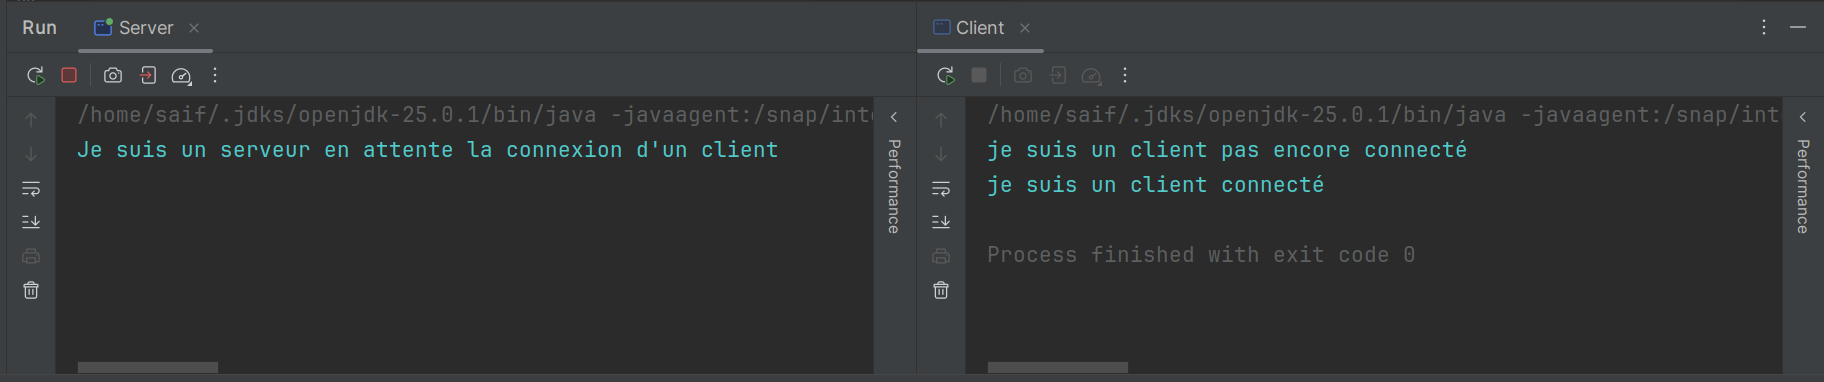
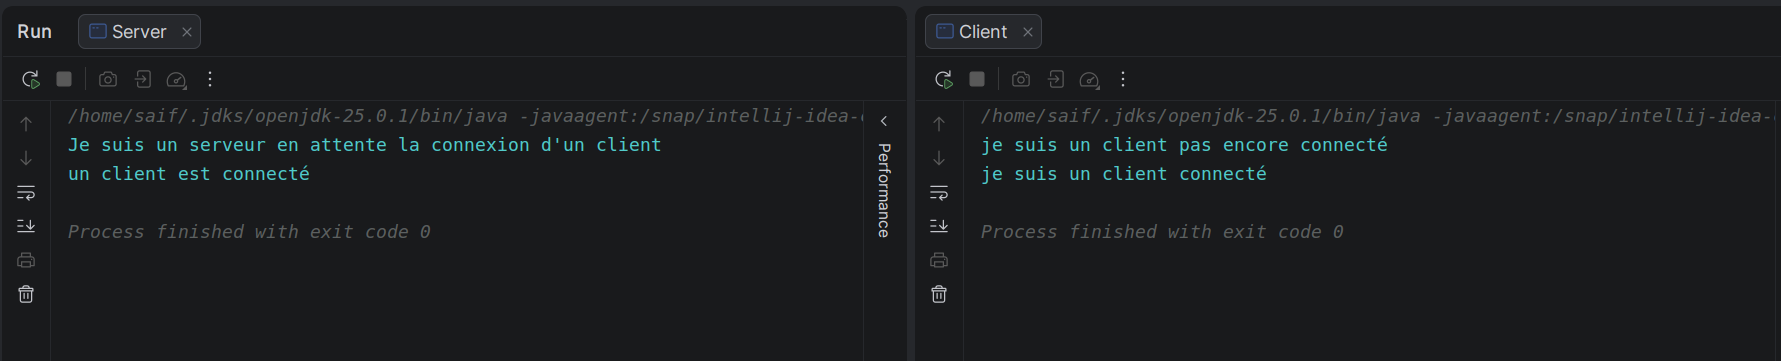
add act1-3_1

diff --git a/src/serverPackage/Server3.java b/src/serverPackage/Server3.java
@@ -1,0 +1,23 @@
+package serverPackage;
+
+import java.io.IOException;
+import java.net.*;
+
+public class Server3 {
+    public static void main(String[] args) throws IOException {
+        InetAddress ip = InetAddress.getByName("192.168.1.40"); 
+        InetSocketAddress adr = new InetSocketAddress(ip, 8080); 
+
+        ServerSocket serverSocket = new ServerSocket();
+        serverSocket.bind(adr);
+
+        System.out.println("\nLe serveur écoute sur "+adr+" !");
+        while (true){
+            Socket socket = serverSocket.accept();
+            System.out.println("Un client est connecté !");
+            socket.close();
+        }
+
+
+    }
+}

diff --git a/src/clientPackage/Client3.java b/src/clientPackage/Client3.java
@@ -1,0 +1,14 @@
+package clientPackage;
+
+import java.io.IOException;
+import java.net.InetSocketAddress;
+import java.net.Socket;
+
+public class Client3 {
+    static void main(String[] args) throws IOException {
+        Socket socket = new Socket();
+        socket.connect(new InetSocketAddress("localhost", 8080), 5000); // 5000 = timeout en ms
+        System.out.println("je suis un client connecté");
+
+    }
+}

diff --git a/README.md b/README.md
@@ -1,17 +1,23 @@
 # TP1
 ## Activité 1
 
-### Activité 1_1
+### Activité 1-1
 ![act1.jpg](screenshots/act1.jpg)
 
-### Activité 1_2
-#### 3) Testez le programme avec différentes valeurs de x (positives, négatives, zéro):
-![act2_2.jpg](screenshots/act2_2.jpg)
+### Activité 1-2
+#### 3. Testez le programme avec différentes valeurs de x (positives, négatives, zéro):
+![act1-2_2.jpg](screenshots/act1-2_2.jpg)
 
 Le client reçoit 251 au lieu de -5 parce que la communication ne peut transporter qu'un petit nombre (entre 0 et 255), donc -1 est transformé en 255 avant d'arriver au serveur. Le résultat 1275 est trop grand pour passer aussi, alors il est coupé et devient 251 ; il faut donc utiliser une méthode qui envoie l'entier en entier (`writeInt`/`readInt`).
 
-#### 4) Exploiter les deux classes DataInputStream et DataOutputStream:
-![act2_4.jpg](screenshots/act2_4.jpg)
+#### 4. Exploiter les deux classes DataInputStream et DataOutputStream:
+![act1-2_4.jpg](screenshots/act1-2_4.jpg)
 
-#### 5) Échange de plusieurs entiers successivement:
-![act2_5.jpg](screenshots/act2_5.jpg)
+#### 5. Échange de plusieurs entiers successivement:
+![act1-2_5.jpg](screenshots/act1-2_5.jpg)
+
+### Activité 1-3
+#### 1. Connexion Client/Serveur sur deux machines distinctes
+![act1-3_1.jpg](screenshots/act1-3_1.jpg)
+
+
